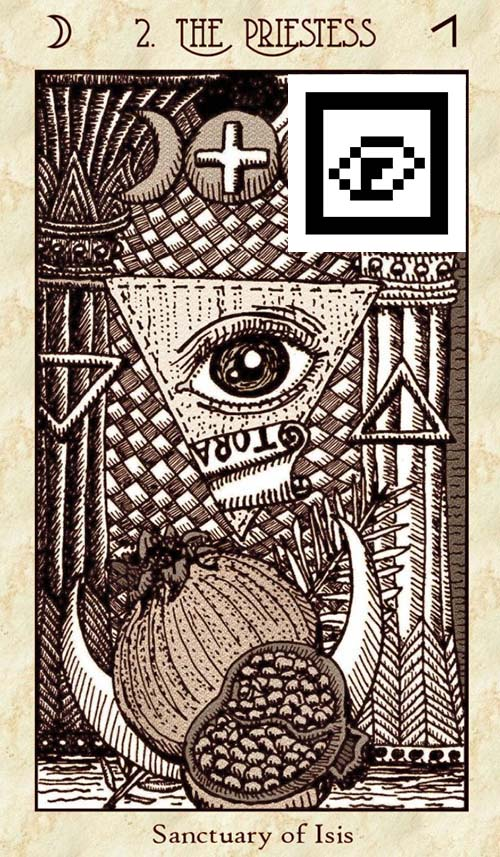
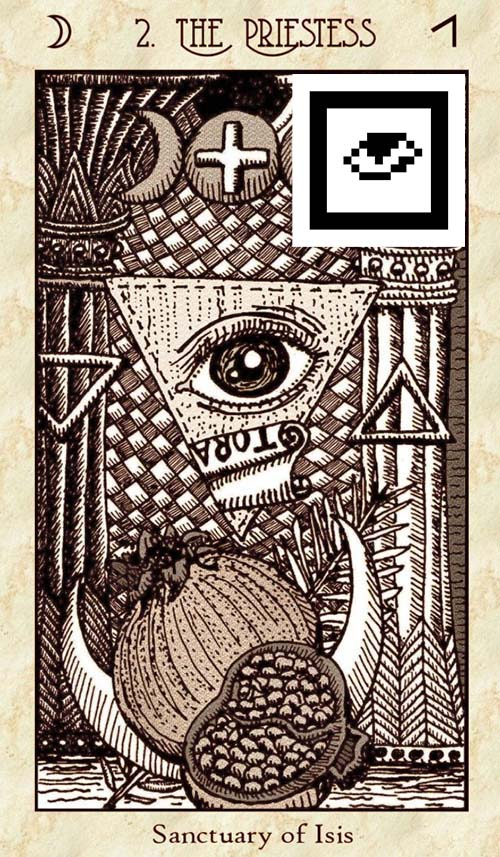
added tarot cards with markers

Changed region(s): [[0.57, 0.091, 0.93, 0.3034]]

diff --git a/index.html b/index.html
@@ -93,14 +93,21 @@
         <img id="wood-nrm" src="./assets/textures/wood-nrm.jpg" />
         <img id="portrait" src="./assets/pictures/trapped.jpg" />
         <img id="paper" src="./assets/pictures/paper-small.png" />
-        <img id="tarot-1" src="./assets/tarot/tarot-3-1.jpg" />
-        <img id="tarot-2" src="./assets/tarot/tarot-3-2.jpg" />
-        <img id="tarot-3" src="./assets/tarot/tarot-3-3.jpg" />
+        <img id="tarot-1" src="./assets/tarot/tarot-5-3.jpg" />
+        <img id="tarot-2" src="./assets/tarot/tarot-3-1.jpg" />
+        <img id="tarot-3" src="./assets/tarot/tarot-3-2.jpg" />
+        <img id="tarot-marker-1" src="./assets/tarot/tarot-star-marker.jpg" />
+        <img id="tarot-marker-2" src="./assets/tarot/tarot-eye-marker.jpg" />
+        <img
+          id="tarot-marker-3"
+          src="./assets/tarot/tarot-necklace-marker.jpg"
+        />
         <img id="speechbubble" src="./assets/pictures/speech.png" />
         <img id="qr" src="assets/tarot/frame.png" />
+        <img id="sunny-field" src="assets/pictures/sunny-field.jpg" />
       </a-assets>
 
-      <a-sky color="#00004d"></a-sky>
+      <a-sky src="#sunny-field"></a-sky>
 
       <a-light type="ambient" intensity="3"></a-light>
       <a-light
@@ -235,62 +242,6 @@
         vertex-b="0 0"
         vertex-c="5 5"
       ></a-triangle>
-      <a-gltf-model
-        static-body
-        src="#table"
-        position="3.5 0.8 0.5"
-        scale="0.004 0.004 0.004"
-        rotation="0 90 0"
-      ></a-gltf-model>
-      <a-gltf-model
-        static-body
-        src="#chair"
-        position="4.5 0.3 0.5"
-        scale="0.06 0.06 0.06"
-        rotation="0 -90 0"
-      ></a-gltf-model>
-      <a-gltf-model
-        id="the-medium"
-        static-body
-        src="#medium"
-        position="4.5 0.3 0.5"
-        scale="0.01 0.01 0.01"
-        rotation="0 -90 0"
-        visible="false"
-      ></a-gltf-model>
-      <a-image
-        id="speech"
-        src="#speechbubble"
-        position="4.2 2. 1.4"
-        rotation="0 -90 0"
-        visible="false"
-        tarot="message1: #speech-text-1; message2: #speech-text-2; text: #cam-text;"
-      >
-      </a-image>
-      <a-text
-        id="speech-text-1"
-        font="https://cdn.aframe.io/fonts/Monoid.fnt"
-        position="4.19 2.15 1"
-        value="Whoa, those Truths were harsh! The spirits are not so good at sugarcoating things... But now it's time to move on."
-        wrap-count="20"
-        width="0.8"
-        align="left"
-        color="black"
-        rotation="0 -90 0"
-        visible="false"
-      ></a-text>
-      <a-text
-        id="speech-text-2"
-        font="https://cdn.aframe.io/fonts/Monoid.fnt"
-        position="4.19 2.3 1"
-        value="These cards will help you."
-        wrap-count="20"
-        width="0.8"
-        align="left"
-        color="black"
-        rotation="0 -90 0"
-        visible="false"
-      ></a-text>
 
       <a-image
         src="#paper"
@@ -482,9 +433,96 @@
         width="2.2"
         opacity="0"
       ></a-text>
+
+      <a-gltf-model
+        static-body
+        src="#table"
+        position="3.5 0.8 0.5"
+        scale="0.004 0.004 0.004"
+        rotation="0 90 0"
+      ></a-gltf-model>
+      <a-gltf-model
+        static-body
+        src="#chair"
+        position="4.5 0.3 0.5"
+        scale="0.06 0.06 0.06"
+        rotation="0 -90 0"
+      ></a-gltf-model>
+      <a-gltf-model
+        id="the-medium"
+        static-body
+        src="#medium"
+        position="4.5 0.3 0.5"
+        scale="0.01 0.01 0.01"
+        rotation="0 -90 0"
+        visible="false"
+      ></a-gltf-model>
+      <a-image
+        id="speech"
+        src="#speechbubble"
+        position="4.2 2. 1.4"
+        rotation="0 -90 0"
+        visible="false"
+        tarot="message1: #speech-text-1; message2: #speech-text-2; text: #cam-text;"
+      >
+      </a-image>
+      <a-text
+        id="speech-text-1"
+        font="https://cdn.aframe.io/fonts/Monoid.fnt"
+        position="4.19 2.15 1"
+        value="Whoa, those Truths were harsh! The spirits are not so good at sugarcoating things... But now it's time to move on.              ->"
+        wrap-count="20"
+        width="0.8"
+        align="left"
+        color="black"
+        rotation="0 -90 0"
+        visible="false"
+      ></a-text>
+      <a-text
+        id="speech-text-2"
+        font="https://cdn.aframe.io/fonts/Monoid.fnt"
+        position="4.19 2.3 1"
+        value="These cards will help you."
+        wrap-count="20"
+        width="0.8"
+        align="left"
+        color="black"
+        rotation="0 -90 0"
+        visible="false"
+      ></a-text>
+      <a-image
+        id="#marker-1"
+        src="#tarot-marker-1"
+        width="1.5"
+        height="2.5"
+        position="3.5 1.5 4.9"
+        rotation="0 180 0"
+        visible="true"
+      >
+      </a-image>
+      <a-image
+        id="#marker-2"
+        src="#tarot-marker-2"
+        width="1.5"
+        height="2.5"
+        position="0 1.5 4.9"
+        rotation="0 180 0"
+        visible="true"
+      >
+      </a-image>
+      <a-image
+        id="#marker-3"
+        src="#tarot-marker-3"
+        width="1.5"
+        height="2.5"
+        position="-3.5 1.5 4.9"
+        rotation="0 180 0"
+        visible="true"
+      >
+      </a-image>
+
       <a-entity id="camera" progressive-controls position="0 0 3">
         <a-camera id="cam" look-controls="pointerLockEnabled: true">
-
           <a-text
             id="cam-text"
             font="https://cdn.aframe.io/fonts/Monoid.fnt"

diff --git a/js/components.js b/js/components.js
@@ -253,3 +253,4 @@ AFRAME.registerComponent('flip-card', {
     });
   },
 });
+
